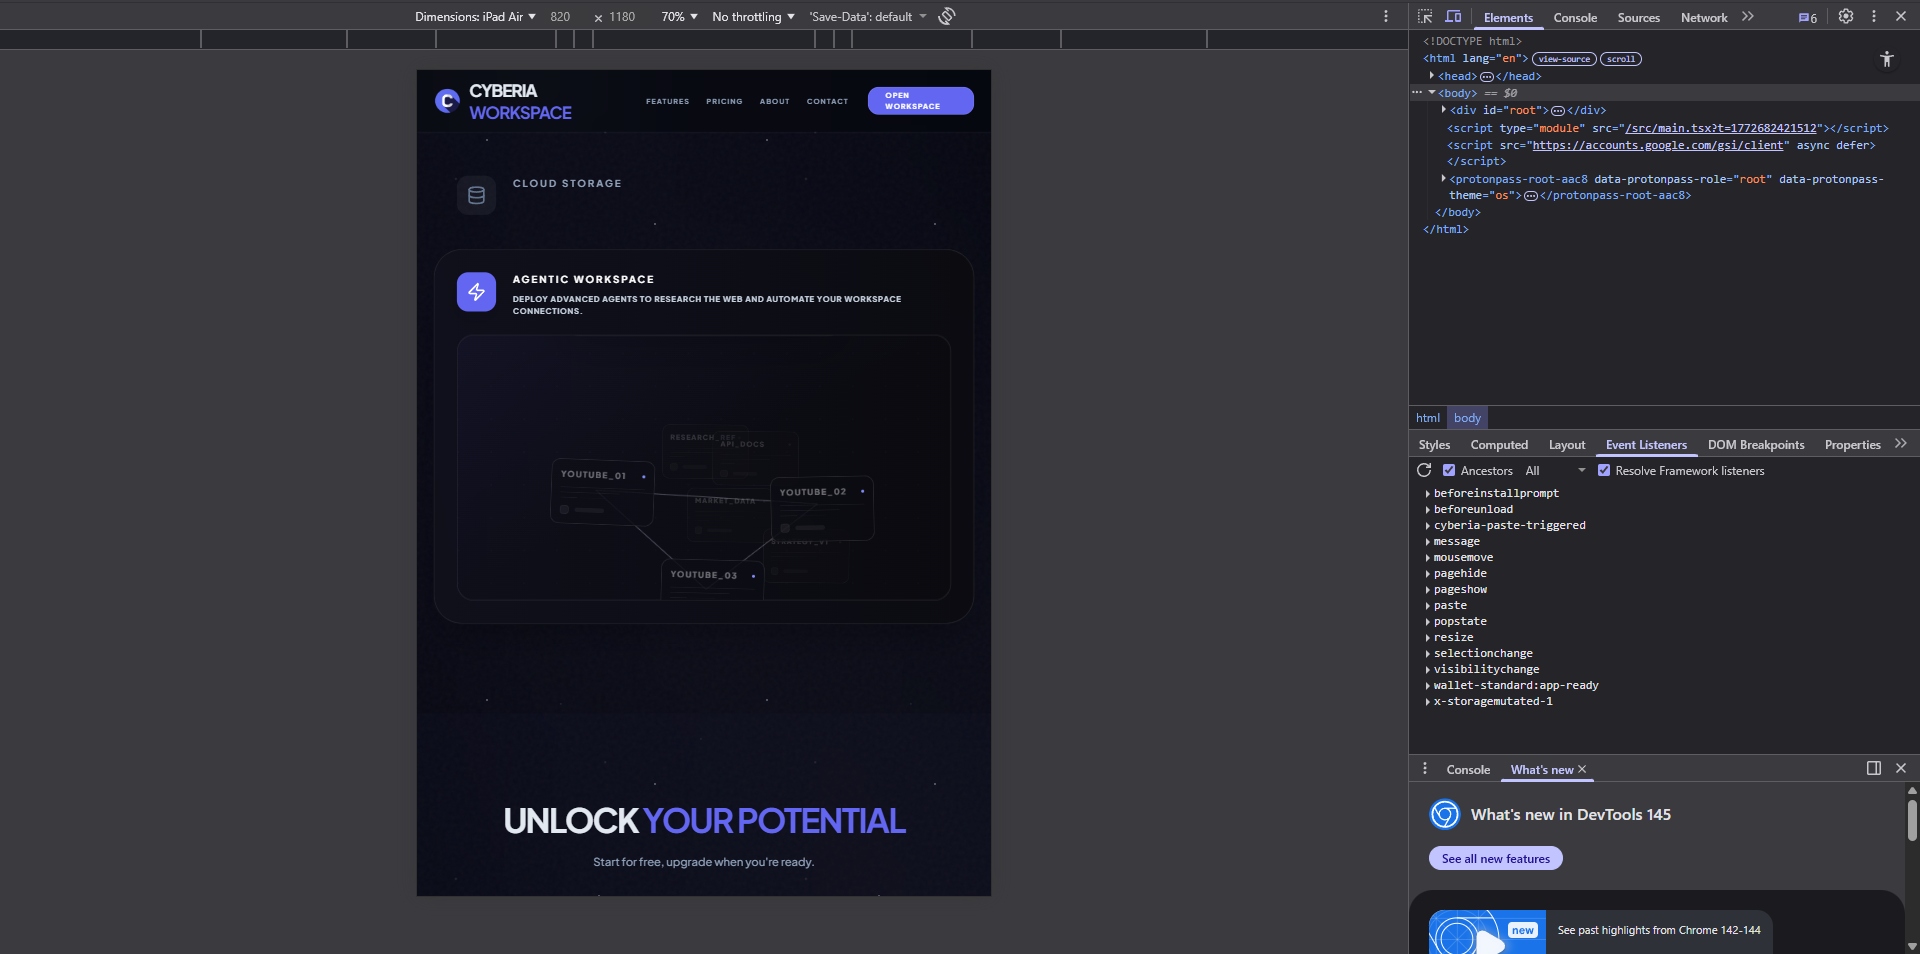
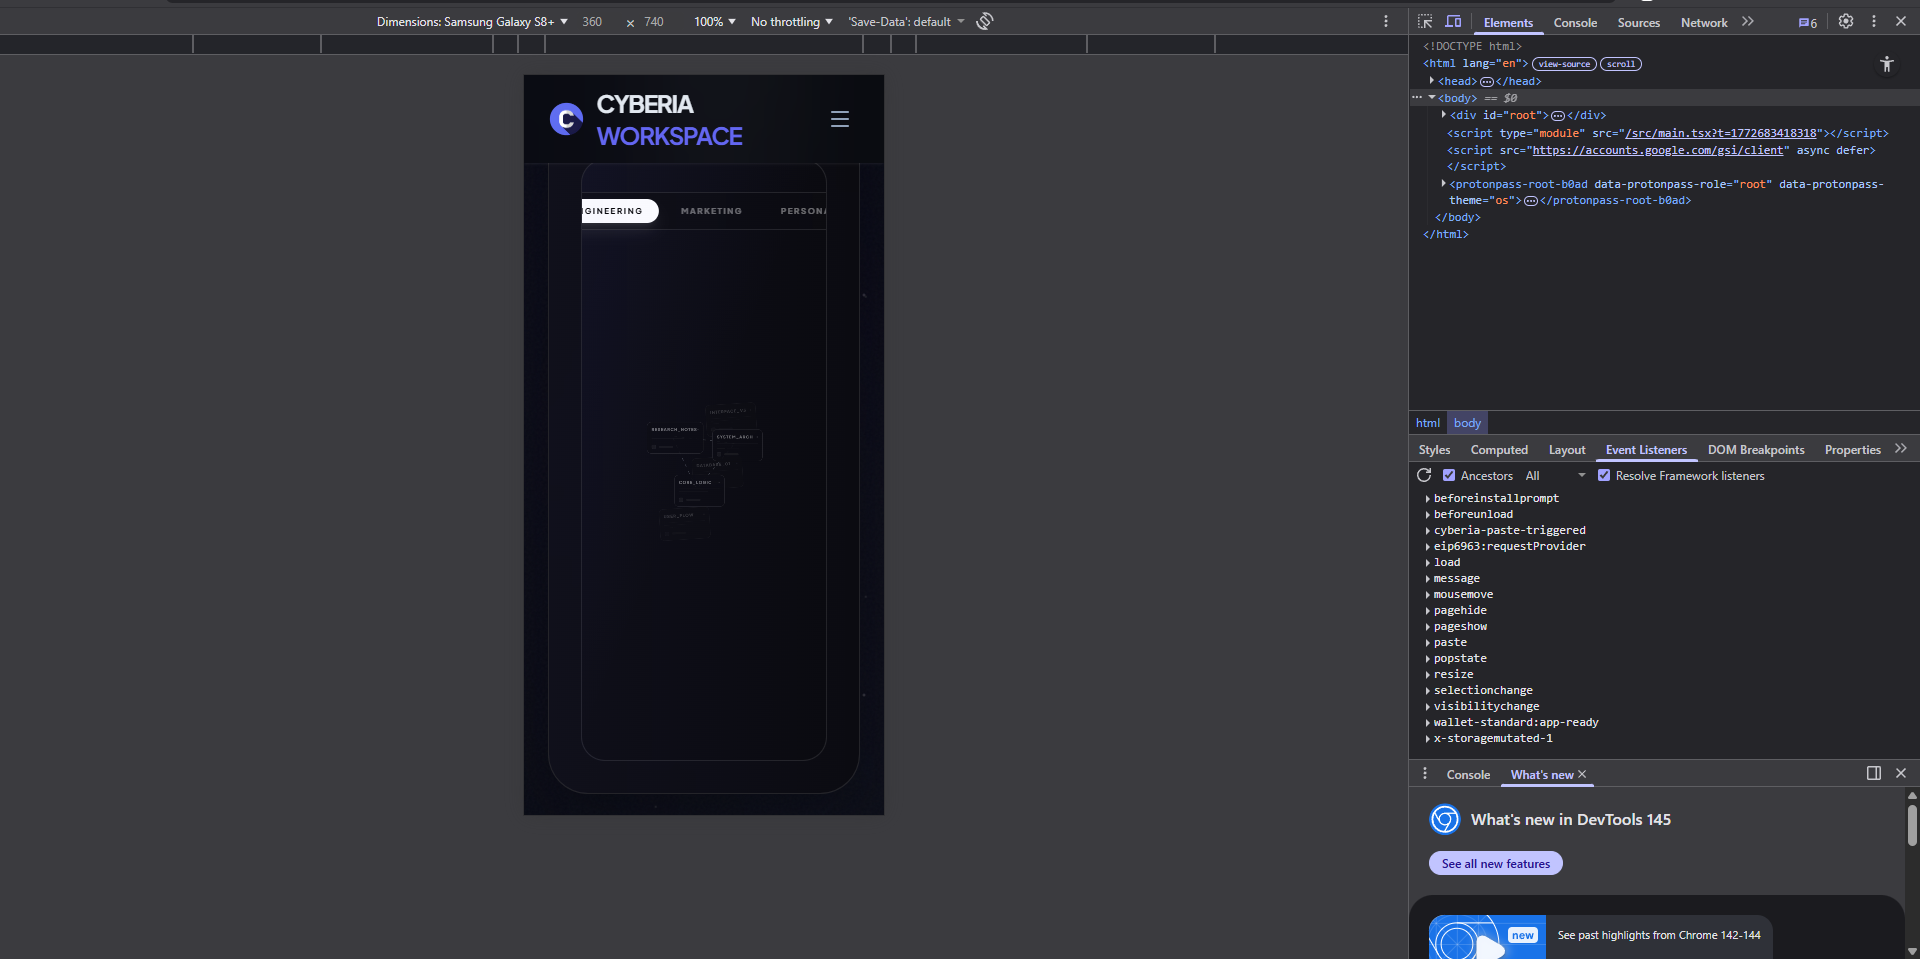
fixed homepage

diff --git a/src/components/Homepage.tsx b/src/components/Homepage.tsx
@@ -121,9 +121,9 @@ const AgenticSpaceVisual: React.FC<{
 
 
   const freeNodes = useMemo(() => [
-    { id: 4, title: currentSpace.free[0], x: [220, -260], y: [-240, 160], duration: 34, delay: 1 },
-    { id: 5, title: currentSpace.free[1], x: [-200, 280], y: [60, 240], duration: 45, delay: 5 },
-    { id: 6, title: currentSpace.free[2], x: [180, -280], y: [-120, 280], duration: 40, delay: 3 },
+    { id: 4, title: currentSpace.free[0], x: [240, -290], y: [-270, 190], duration: 34, delay: 1 },
+    { id: 5, title: currentSpace.free[1], x: [-220, 310], y: [80, 270], duration: 45, delay: 5 },
+    { id: 6, title: currentSpace.free[2], x: [200, -310], y: [-140, 310], duration: 40, delay: 3 },
   ], [currentSpace]);
 
   const clusterNodes = useMemo(() => [
@@ -375,9 +375,9 @@ const DynamicViewsVisual: React.FC<{
   ];
 
   const freeNodes = [
-    { id: 'f1', title: 'IDEAS', x: [250, -250], y: [-150, 150], duration: 30, delay: 0 },
-    { id: 'f2', title: 'NOTES', x: [-200, 200], y: [100, -100], duration: 40, delay: 5 },
-    { id: 'f3', title: 'LOGS', x: [150, -150], y: [200, -200], duration: 35, delay: 2 },
+    { id: 'f1', title: 'IDEAS', x: [290, -290], y: [-170, 170], duration: 30, delay: 0 },
+    { id: 'f2', title: 'NOTES', x: [-230, 230], y: [110, -110], duration: 40, delay: 5 },
+    { id: 'f3', title: 'LOGS', x: [170, -170], y: [230, -230], duration: 35, delay: 2 },
   ];
 
   const getPosition = (index: number, currentView: string) => {
@@ -606,9 +606,9 @@ const CloudPersistenceVisual = () => {
   ];
 
   const freeNodes = [
-    { id: 'f1', title: 'BACKUP_V1', x: [280, -280], y: [-200, 200], duration: 35, delay: 0 },
-    { id: 'f2', title: 'ASSETS', x: [-250, 250], y: [150, -150], duration: 45, delay: 5 },
-    { id: 'f3', title: 'MEDIA', x: [200, -200], y: [250, -250], duration: 40, delay: 10 },
+    { id: 'f1', title: 'BACKUP_V1', x: [310, -310], y: [-220, 220], duration: 35, delay: 0 },
+    { id: 'f2', title: 'ASSETS', x: [-280, 280], y: [170, -170], duration: 45, delay: 5 },
+    { id: 'f3', title: 'MEDIA', x: [220, -220], y: [280, -280], duration: 40, delay: 10 },
   ];
 
   return (
@@ -811,10 +811,10 @@ const AgenticWorkspaceVisual = () => {
   const fullPrompt = "Research on topic X, find me 3 related videos from youtube and link them.";
 
   const freeNodes = [
-    { id: 'f1', title: 'RESEARCH_REF', x: [300, -300], y: [-200, 200], duration: 45, delay: 0 },
-    { id: 'f2', title: 'API_DOCS', x: [-350, 350], y: [150, -150], duration: 55, delay: 10 },
-    { id: 'f3', title: 'MARKET_DATA', x: [200, -200], y: [250, -250], duration: 65, delay: 5 },
-    { id: 'f4', title: 'STRATEGY_V1', x: [-250, 250], y: [-300, 300], duration: 50, delay: 15 },
+    { id: 'f1', title: 'RESEARCH_REF', x: [340, -340], y: [-220, 220], duration: 45, delay: 0 },
+    { id: 'f2', title: 'API_DOCS', x: [-390, 390], y: [170, -170], duration: 55, delay: 10 },
+    { id: 'f3', title: 'MARKET_DATA', x: [230, -230], y: [280, -280], duration: 65, delay: 5 },
+    { id: 'f4', title: 'STRATEGY_V1', x: [-290, 290], y: [-340, 340], duration: 50, delay: 15 },
   ];
   
   useEffect(() => {
@@ -855,9 +855,9 @@ const AgenticWorkspaceVisual = () => {
   }, []);
 
   const cards = [
-    { id: '1', title: 'YOUTUBE_01', tx: -180, ty: 40 },
-    { id: '2', title: 'YOUTUBE_02', tx: 180, ty: 60 },
-    { id: '3', title: 'YOUTUBE_03', tx: 0, ty: 200 },
+    { id: '1', title: 'YOUTUBE_01', tx: -160, ty: 40 },
+    { id: '2', title: 'YOUTUBE_02', tx: 160, ty: 60 },
+    { id: '3', title: 'YOUTUBE_03', tx: 0, ty: 180 },
   ];
 
   return (
@@ -1024,12 +1024,12 @@ const ResponsiveStage = ({ children }: { children: React.ReactNode }) => {
   useEffect(() => {
     const updateScale = () => {
       if (containerRef.current) {
-        const width = containerRef.current.offsetWidth;
+        const width = containerRef.current.offsetWidth - 32; // Account for 32px padding safety
+        const height = containerRef.current.offsetHeight - 32;
         const designSize = 600;
-
-        const newScale = width / designSize;
-        setScale(Math.max(0.4, newScale)); // Minimum scale of 0.4 to prevent disappearance
-
+        // New scaling logic: Contain within both width and height
+        const newScale = Math.min(width / designSize, height / designSize);
+        setScale(Math.max(0.45, newScale)); // Increase min-scale to 0.45 for better readability
       }
     };
     updateScale();
@@ -1090,13 +1090,13 @@ const FeatureVisual: React.FC<{ activeFeature: number }> = ({ activeFeature }) =
             initial={{ opacity: 0, y: -10 }}
             animate={{ opacity: 1, y: 0 }}
             exit={{ opacity: 0, y: -10 }}
-            className="absolute top-8 left-1/2 -translate-x-1/2 z-[110] flex items-center gap-1.5 p-1.5 glass rounded-full border border-white/5"
+            className="absolute top-8 left-1/2 -translate-x-1/2 z-[110] flex items-center gap-1.5 p-1.5 glass rounded-full border border-white/5 max-w-[90vw]"
           >
             {SPACES_DATA.map((space, idx) => (
               <button
                 key={space.name}
                 onClick={() => setActiveSpaceIdx(idx)}
-                className={`px-4 py-1.5 rounded-full text-[8px] font-black uppercase tracking-[0.2em] transition-all duration-300 ${
+                className={`px-2 py-1 md:px-4 md:py-1.5 rounded-full text-[7px] md:text-[8px] font-black uppercase tracking-[0.1em] md:tracking-[0.2em] transition-all duration-300 ${
                   activeSpaceIdx === idx 
                     ? 'bg-white text-black shadow-lg shadow-white/10' 
                     : 'text-white/40 hover:text-white hover:bg-white/5'
@@ -1113,13 +1113,13 @@ const FeatureVisual: React.FC<{ activeFeature: number }> = ({ activeFeature }) =
             initial={{ opacity: 0, y: -10 }}
             animate={{ opacity: 1, y: 0 }}
             exit={{ opacity: 0, y: -10 }}
-            className="absolute top-8 left-1/2 -translate-x-1/2 z-[110] flex items-center gap-1.5 p-1.5 glass rounded-full border border-white/5"
+            className="absolute top-8 left-1/2 -translate-x-1/2 z-[110] flex items-center gap-1.5 p-1.5 glass rounded-full border border-white/5 max-w-[90vw]"
           >
             {(['spatial', 'kanban', 'calendar'] as const).map((v) => (
               <button
                 key={v}
                 onClick={() => setView(v)}
-                className={`px-4 py-1.5 rounded-full text-[8px] font-black uppercase tracking-[0.2em] transition-all duration-300 ${
+                className={`px-2 py-1 md:px-4 md:py-1.5 rounded-full text-[7px] md:text-[8px] font-black uppercase tracking-[0.1em] md:tracking-[0.2em] transition-all duration-300 ${
                   view === v 
                     ? 'bg-white text-black shadow-lg shadow-white/10' 
                     : 'text-white/40 hover:text-white hover:bg-white/5'
@@ -1407,9 +1407,9 @@ const Homepage: React.FC = () => {
                     {activeFeature === index && (
                       <motion.div
                         initial={{ opacity: 0, height: 0 }}
-                        animate={{ opacity: 1, height: 380 }}
+                        animate={{ opacity: 1, height: 'auto' }}
                         exit={{ opacity: 0, height: 0 }}
-                        className="lg:hidden mt-6 w-full h-[380px] glass rounded-3xl overflow-hidden relative"
+                        className="lg:hidden mt-6 w-full h-[380px] md:h-[500px] glass rounded-3xl overflow-hidden relative"
                       >
 
                         <div className="absolute inset-0 bg-gradient-to-br from-[var(--accent)]/10 via-transparent to-transparent opacity-50" />